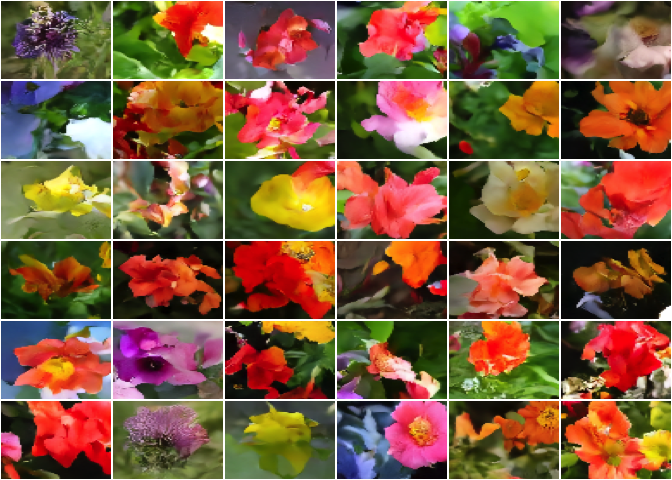
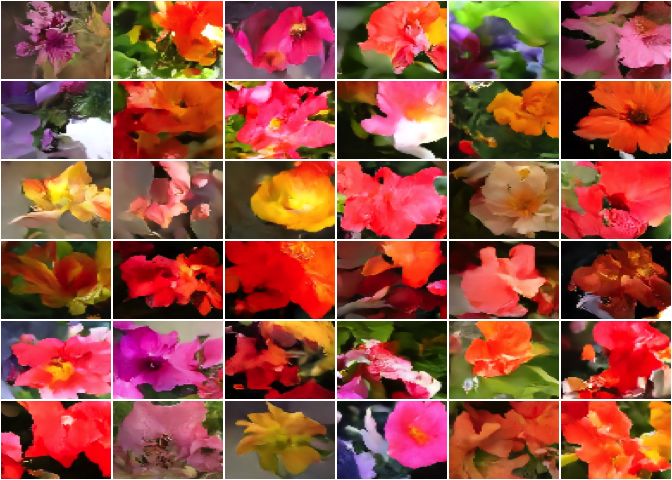
Use results from corrected experiments.

diff --git a/README.md b/README.md
@@ -362,7 +362,8 @@ compare the quality of generated samples.
 The results for the flowers dataset are shown below:
 
 ``` r
-runs <- guildai::runs_info(label = "flowers_exp1")
+runs <- guildai::runs_info(label = "full_exp1") %>% 
+  dplyr::filter(flags$dataset_name == "flowers")
 runs |> 
   tidyr::unpack(c(flags, scalars)) |> 
   dplyr::select(
@@ -378,14 +379,14 @@ runs |>
 
 | loss | loss_on | schedule_type | noise_loss | image_loss |       kid |
 |:-----|:--------|:--------------|-----------:|-----------:|----------:|
-| mse  | image   | cosine        |  0.4835953 |  0.7167605 | 0.3655073 |
-| mse  | image   | linear        |  0.3766442 |  0.8138317 | 0.3649815 |
-| mse  | noise   | cosine        |  0.1653200 |  0.2689797 | 0.1118684 |
-| mse  | noise   | linear        |  0.1400425 |  0.3130383 | 0.1755732 |
-| mae  | image   | cosine        |  0.4836761 |  0.7168015 | 0.3657972 |
-| mae  | image   | linear        |  0.3765011 |  0.8135592 | 0.3649954 |
-| mae  | noise   | cosine        |  0.1645384 |  0.2612465 | 0.0667027 |
-| mae  | noise   | linear        |  0.1390513 |  0.3053726 | 0.1622408 |
+| mse  | image   | cosine        |  0.1714205 |  0.2668262 | 0.1390257 |
+| mse  | image   | linear        |  0.1472155 |  0.3130986 | 0.2125010 |
+| mse  | noise   | cosine        |  0.1655174 |  0.2694866 | 0.1315258 |
+| mse  | noise   | linear        |  0.1399971 |  0.3131811 | 0.1652256 |
+| mae  | image   | cosine        |  0.1665038 |  0.2591124 | 0.1038467 |
+| mae  | image   | linear        |  0.1435601 |  0.3056073 | 0.1912024 |
+| mae  | noise   | cosine        |  0.1644953 |  0.2626610 | 0.0934186 |
+| mae  | noise   | linear        |  0.1388959 |  0.3046939 | 0.1673736 |
 
 We can see that given that the other hyper-parameters are fixed, it’s
 better to train the neural network on the MAE of the noises using a
@@ -418,7 +419,8 @@ plot_samples_from_runs(runs)
 Below we also show the results fro the Oxford pets dataset:
 
 ``` r
-pet_runs <- guildai::runs_info(label = "pets_exp1")
+pet_runs <- guildai::runs_info(label = "full_exp1") %>% 
+  dplyr::filter(flags$dataset_name == "pets")
 pet_runs |> 
   tidyr::unpack(c(flags, scalars)) |> 
   dplyr::select(
@@ -434,14 +436,14 @@ pet_runs |>
 
 | loss | loss_on | schedule_type | noise_loss | image_loss |       kid |
 |:-----|:--------|:--------------|-----------:|-----------:|----------:|
-| mse  | image   | cosine        |  0.4883460 |  0.7172473 | 0.3024270 |
-| mse  | image   | linear        |  0.3797459 |  0.8162298 | 0.3028805 |
-| mse  | noise   | cosine        |  0.1624075 |  0.2608972 | 0.1798809 |
-| mse  | noise   | linear        |  0.1392281 |  0.3028255 | 0.1270332 |
-| mae  | image   | cosine        |  0.4881921 |  0.7170140 | 0.3026654 |
-| mae  | image   | linear        |  0.3799292 |  0.8164758 | 0.3028298 |
-| mae  | noise   | cosine        |  0.1620857 |  0.2544903 | 0.1370383 |
-| mae  | noise   | linear        |  0.1387370 |  0.2974243 | 0.1596186 |
+| mse  | image   | cosine        |  0.1682112 |  0.2542121 | 0.1500503 |
+| mse  | image   | linear        |  0.1472592 |  0.3009916 | 0.1741628 |
+| mse  | noise   | cosine        |  0.1630672 |  0.2554463 | 0.1886360 |
+| mse  | noise   | linear        |  0.1390071 |  0.2988549 | 0.1187079 |
+| mae  | image   | cosine        |  0.1649045 |  0.2497923 | 0.1487082 |
+| mae  | image   | linear        |  0.1444500 |  0.2968645 | 0.2122481 |
+| mae  | noise   | cosine        |  0.1644861 |  0.2545764 | 0.1971107 |
+| mae  | noise   | linear        |  0.1390262 |  0.2952372 | 0.1810841 |
 
 Again, the images below are ordered the same way as the above table,
 each row representing a different experiment configuration.
